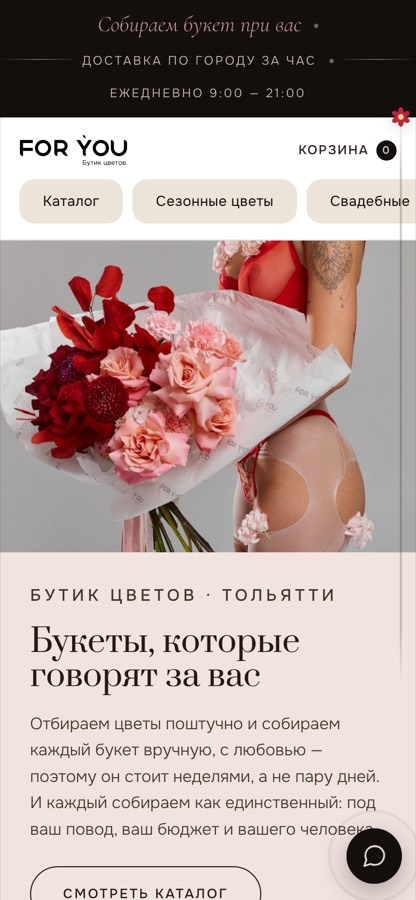
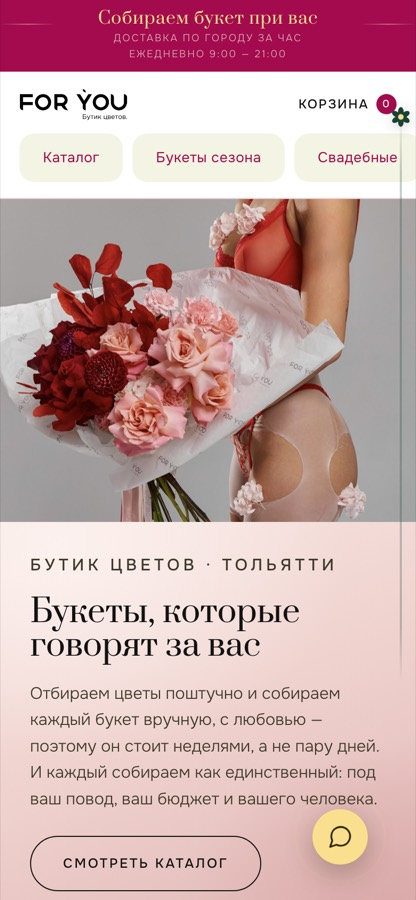
Свои домены у Фёдора Никитича и For You, новое фото, For You целиком на WordPress

diff --git a/index.html b/index.html
@@ -20,7 +20,7 @@
 <link rel="preload" href="assets/fonts/unbounded-800-cyrillic.woff2" as="font" type="font/woff2" crossorigin>
 <link rel="preload" href="assets/fonts/onest-400-cyrillic.woff2" as="font" type="font/woff2" crossorigin>
 <link rel="stylesheet" href="assets/fonts/fonts.css">
-<link rel="stylesheet" href="assets/style.css?v=6">
+<link rel="stylesheet" href="assets/style.css?v=7">
 
 <script type="application/ld+json">
 {
@@ -74,7 +74,7 @@
   <div class="works">
 
     <article class="work">
-      <a class="phone" href="https://leragodzen.github.io/fedor-nikitich/" target="_blank" rel="noopener" aria-label="Открыть сайт кафе «Фёдор Никитич»">
+      <a class="phone" href="https://fedornikitich.ru" target="_blank" rel="noopener" aria-label="Открыть сайт кафе «Фёдор Никитич»">
         <img src="assets/works/fedor.jpg" width="416" height="900" alt="Главная страница сайта кафе «Фёдор Никитич»" loading="lazy" decoding="async">
       </a>
       <div class="work__body">
@@ -82,7 +82,7 @@
         <h3 class="work__name">Фёдор Никитич</h3>
         <p class="work__note">QR-код на столах открывает меню с фотографиями. Гость видит, как выглядит блюдо, и заказывает больше.</p>
         <div class="work__links">
-          <a class="btn btn--sm btn--solid" href="https://leragodzen.github.io/fedor-nikitich/" target="_blank" rel="noopener">Открыть сайт</a>
+          <a class="btn btn--sm btn--solid" href="https://fedornikitich.ru" target="_blank" rel="noopener">Открыть сайт</a>
         </div>
         <details class="more">
           <summary>Что именно я сделала</summary>
@@ -174,15 +174,15 @@
     </article>
 
     <article class="work">
-      <a class="phone" href="https://leragodzen.github.io/foryou-flowers/" target="_blank" rel="noopener" aria-label="Открыть сайт бутика цветов For You">
+      <a class="phone" href="https://foryouflowers.ru" target="_blank" rel="noopener" aria-label="Открыть сайт бутика цветов For You">
         <img src="assets/works/foryou.jpg" width="416" height="900" alt="Главная страница сайта бутика цветов For You" loading="lazy" decoding="async">
       </a>
       <div class="work__body">
         <p class="work__kind">Бутик цветов</p>
         <h3 class="work__name">For You</h3>
-        <p class="work__note">Заказ оформляется на сайте и не теряется в переписке. Каталог, корзина, доставка, оплата.</p>
+        <p class="work__note">Интернет-магазин на WordPress: каталог, корзина, доставка и оплата. Заказ приходит оформленным и не теряется в переписке.</p>
         <div class="work__links">
-          <a class="btn btn--sm btn--solid" href="https://leragodzen.github.io/foryou-flowers/" target="_blank" rel="noopener">Открыть сайт</a>
+          <a class="btn btn--sm btn--solid" href="https://foryouflowers.ru" target="_blank" rel="noopener">Открыть сайт</a>
         </div>
         <details class="more">
           <summary>Что именно я сделала</summary>
@@ -190,7 +190,7 @@
             <dt>Было у заказчика</dt>
             <dd>Старый сайт, который полгода не могли запустить: пустые карточки товаров, тексты-заглушки, ненастроенная доставка. Заказы шли в личные сообщения и терялись.</dd>
             <dt>Сделала</dt>
-            <dd>Сайт сделан мной полностью, с нуля. Собрала каталог, написала все тексты, обработала фотографии, настроила оформление заказа и доставку, разложила букеты по поводам и бюджетам.</dd>
+            <dd>Сайт сделан мной полностью, от первого экрана до кнопки оплаты. Работала внутри WordPress: собрала каталог, написала все тексты, обработала фотографии, настроила оформление заказа и доставку, разложила букеты по поводам и бюджетам. Никто, кроме меня, к сайту не прикасался.</dd>
             <dt>Что это даёт</dt>
             <dd>Заказ приходит готовым: с адресом, датой и суммой. Не нужно вручную вести каждого покупателя в переписке и вспоминать, кто что просил.</dd>
           </dl>
@@ -375,6 +375,6 @@
   </button>
 </div>
 
-<script src="assets/app.js?v=6" defer></script>
+<script src="assets/app.js?v=7" defer></script>
 </body>
 </html>

diff --git a/privacy.html b/privacy.html
@@ -8,7 +8,7 @@
 <meta name="robots" content="noindex">
 <link rel="icon" href="assets/favicon.svg" type="image/svg+xml">
 <link rel="stylesheet" href="assets/fonts/fonts.css">
-<link rel="stylesheet" href="assets/style.css?v=6">
+<link rel="stylesheet" href="assets/style.css?v=7">
 </head>
 <body>
 
@@ -64,7 +64,7 @@
 
 
 
-<script src="assets/app.js?v=6" defer></script>
+<script src="assets/app.js?v=7" defer></script>
 
 </body>
 </html>
